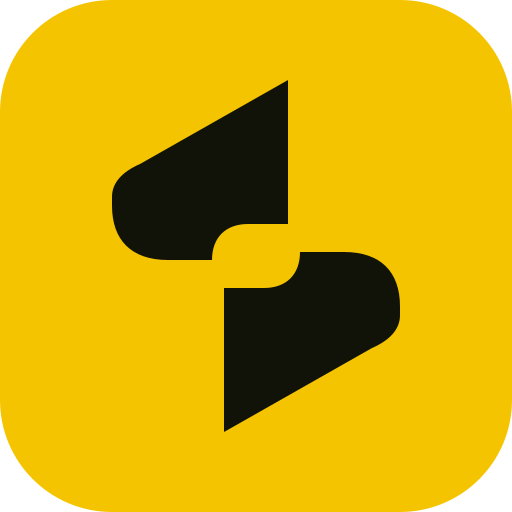
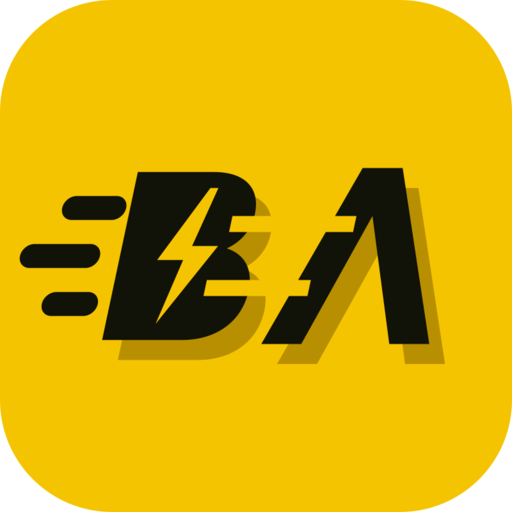
feat: replace the brand mark with the slanted BA monogram (#4)
The favicons, app icons, maskable icon, apple-touch icon and the README
logo now show the new mark: a slanted B with a bolt cut and an open A on
the yellow tile, with an amber shadow, motion lines and two streak cuts.
The link-preview image now points at the main site's social-card-v5.jpg,
which carries the new mark, and its alt text describes that card. The
unused local social-card-v3.jpg with the old mark is removed.

Changed region(s): [[0.0312, 0.1562, 0.875, 0.8438]]

diff --git a/brand.ts b/brand.ts
@@ -7,6 +7,6 @@ export const DEFAULT_DESCRIPTION =
 export const PUBLIC_SITE_ORIGIN = "https://blazingagents.com";
 export const DOCUMENTATION_ORIGIN = "https://docs.blazingagents.com";
 export const SOCIAL_TITLE = "Ship production agents. Skip the plumbing.";
-export const SOCIAL_IMAGE_URL = `${PUBLIC_SITE_ORIGIN}/brand/social-card-v3.jpg`;
+export const SOCIAL_IMAGE_URL = `${PUBLIC_SITE_ORIGIN}/brand/social-card-v5.jpg`;
 export const SOCIAL_IMAGE_ALT =
-  "Blazing Agents multi-tenant agent infrastructure control plane.";
+  "Blazing Agents: 51 production features behind one SDK call, by area, with the SDK code that switches them on.";
